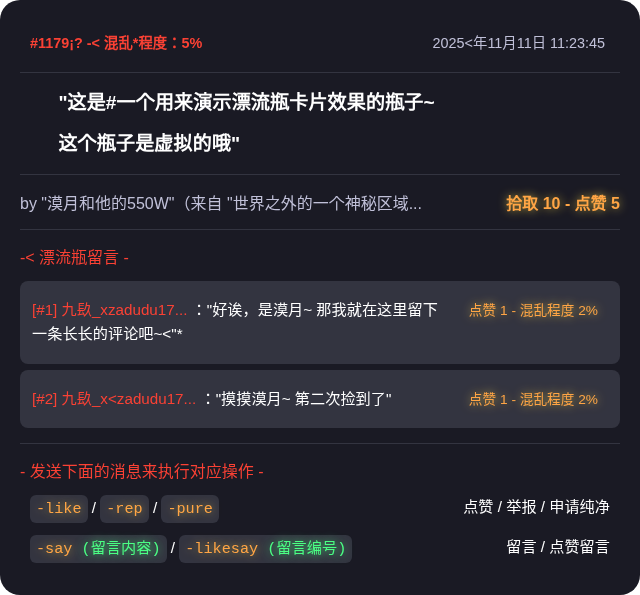
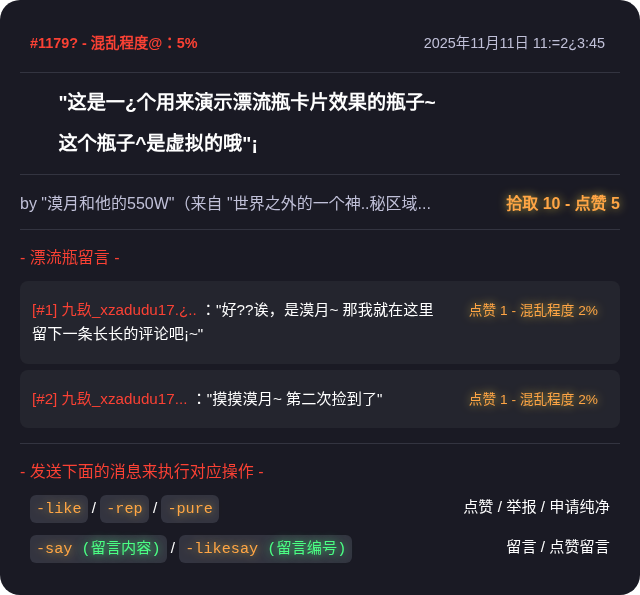
update

diff --git a/xme/plugins/commands/drift_bottle/tools/bottlecard.py b/xme/plugins/commands/drift_bottle/tools/bottlecard.py
@@ -1,5 +1,5 @@
 from xme.xmetools.texttools import limit_str_len
-from xme.xmetools.randtools import html_messy_string
+from xme.xmetools.randtools import html_messy_string, messy_string
 from xme.plugins.commands.drift_bottle.tools.cards import CARD_SKINS
 from xme.plugins.commands.drift_bottle import DriftBottle
 def get_card_item(item_name: str, skin_name="默认卡片") -> str | dict | int | bool:
@@ -65,7 +65,7 @@ def get_example_bottle(skin_name="默认卡片"):
     from xme.plugins.commands.drift_bottle import EXAMPLE_BOTTLE
     return get_class_bottle_card_html(EXAMPLE_BOTTLE, skin_name=skin_name)
 
-def get_class_bottle_card_html(bottle: DriftBottle, messy_rate=None, messy_rate_str=None, custom_tip="", skin_name="默认卡片"):
+def get_class_bottle_card_html(bottle: DriftBottle, messy_rate=None, messy_rate_str=None, custom_tip="", skin_name="默认卡片", html_render=False):
     if messy_rate is None:
         messy_rate = min(100, max(0, bottle.views * 2 - bottle.likes * 3))
     if messy_rate_str is None:
@@ -83,13 +83,14 @@ def get_class_bottle_card_html(bottle: DriftBottle, messy_rate=None, messy_rate_
         comments_list=bottle.comments,
         custom_tip=custom_tip,
         skin_name=skin_name,
+        html_render=html_render,
     )
 
-def get_bottle_card_html(id, messy_rate_str, messy_rate: int | float, date, content, sender, group, views, likes, comments_list, custom_tip="", skin_name="默认卡片"):
+def get_bottle_card_html(id, messy_rate_str, messy_rate: int | float, date, content, sender, group, views, likes, comments_list, custom_tip="", skin_name="默认卡片", html_render=False):
     content = f'"{content}"'
     str_len = get_card_item("str_len", skin_name)
     comments = get_comment_html(messy_rate, comments_list, skin_name=skin_name)
-    formated_content = [f'<p class="main_content">{html_messy_string(c, messy_rate)}</p>' for c in content.replace("\n", "\r").split("\r")]
+    formated_content = [f'<p class="main_content">{html_messy_string(c, messy_rate) if not html_render else messy_string(c, messy_rate)}</p>' for c in content.replace("\n", "\r").split("\r")]
     info_texts = [
         "#{id} - 混乱程度：{messy_rate}".format(id=id, messy_rate=messy_rate_str),
         date,

diff --git a/xme/xmetools/dbtools.py b/xme/xmetools/dbtools.py
@@ -26,9 +26,6 @@ class DbReadWriteable(Protocol):
     def to_dict(self):
         ...
 
-# class DbTypeParser:
-
-#     @staticmethod
 
 class XmeDatabase:
     """XME 数据库相关类
@@ -38,12 +35,6 @@ class XmeDatabase:
         """初始化数据库
         """
         self.db_path = db_path
-
-    # def get_class_table_name(cls: type[object]):
-    #     return cls.__name__
-
-    # def get_instance_class_table_name(cls_instance: object):
-    #     return cls_instance.__class__.__name__
 
     def get_class_typing_hints(cls: type[T_DbReadWriteable]):
         hints = get_type_hints(cls)
@@ -251,39 +242,6 @@ class XmeDatabase:
 
         # data_dict['database'] = self
         return data_dict
-
-    # def create_table(self, obj: T_DbReadWriteable, name=''):
-    #     """通过类创建表
-
-    #     Args:
-    #         name (str): 表名
-    #         obj (Any): 类
-    #     """
-    #     if obj == None: raise ValueError("类不可是 None")
-    #     if not name:
-    #         name = XmeDatabase.get_instance_class_table_name(obj)
-    #     print(f"初始化表 {name} 中...")
-    #     # print(obj.__dict__.items())
-    #     fields = {k: v for k, v in obj.to_dict().items() if k != 'id' and k != 'database'}
-    #     types = ['TEXT' if isinstance(value, str) else 'INTEGER' if isinstance(value, int) else 'BLOB' for value in fields.values()]
-    #     columns = ', '.join([f"{field} {ftype}" for field, ftype in zip(fields.keys(), types)])
-    #     sql = f"CREATE TABLE IF NOT EXISTS {name} (id INTEGER PRIMARY KEY, {columns})"
-    #     self.exec_query(sql)
-
-    # def init_user_info(self):
-    #     """初始化用户信息
-    #     """
-    #     self.exec_query('''
-    #         CREATE TABLE IF NOT EXISTS users (
-    #             id INTEGER PRIMARY KEY,
-    #             name TEXT NOT NULL,
-    #             last_reg_days INTEGER,
-    #             coins INTEGER,
-    #             permission INTEGER DEFAULT 1,
-    #             bio TEXT,
-    #             inventory TEXT
-    #         )
-    #     ''')
 
     @database_connect
     def exec_query(self, cursor, query, params=(), dict_data=False) -> list[tuple | dict]:

diff --git a/xme/xmetools/numtools.py b/xme/xmetools/numtools.py
@@ -2,28 +2,6 @@ import re
 import math
 from decimal import Decimal, getcontext
 
-def is_prime(n: int) -> bool:
-    """检查是否为质数
-
-    Args:
-        n (int): 被检查的数
-
-    Returns:
-        bool: 是否为质数
-    """
-    if n <= 1:
-        return False
-    # 2 和 3 是质数
-    if n <= 3:
-        return True
-    if n % 2 == 0 or n % 3 == 0:
-        return False
-    # 从5开始检查，跳过偶数（步长为6）
-    for i in range(5, int(math.sqrt(n)) + 1, 6):
-        if n % i == 0 or n % (i + 2) == 0:
-            return False
-    return True
-
 def to_nums_base(num: int, num_strs: list[str]):
     """将数字转换为任意进制字符列表，例如定义 ["a", "b", "c"]，会将十进制数字替换为数字字符为 a b c 的三进制数字
 

diff --git a/xme/plugins/event_parsers/bot_connected.py b/xme/plugins/event_parsers/bot_connected.py
@@ -1,7 +1,7 @@
 from nonebot import on_websocket_connect
 import aiocqhttp
 import xme.xmetools.colortools as c
-import xme.xmetools.numtools as n
+from sympy import isprime
 import nonebot
 from xme.xmetools.jsontools import read_from_path, save_to_path
 import config
@@ -16,7 +16,7 @@ async def connect(event: aiocqhttp.Event):
     vars = read_from_path("data/bot_vars.json")
     vars["self_id"] = event.self_id
     save_to_path("data/bot_vars.json", vars)
-    if not n.is_prime(var.currentpid):
+    if not isprime(var.currentpid):
         message = f"[DEBUG] {character.get_message('bot_info', 'name')} 准备好啦~"
         if not config.DEBUG: return
     # else:

diff --git a/xme/plugins/commands/drift_bottle/pickup.py b/xme/plugins/commands/drift_bottle/pickup.py
@@ -188,6 +188,7 @@ async def _(session: CommandSession, user: u.User):
         messy_rate_str=messy_rate_string,
         custom_tip=suffix,
         skin_name=skin_name,
+        html_render=not index_is_int,
     ))
     # await send_session_msg(session, bottle_card)
     await send_session_msg(session, get_message("plugins", __plugin_name__, "bottle_picked_prefix") + (await image_msg(bottle_card)), linebreak=False, tips=True)

diff --git a/xme/plugins/commands/drift_bottle/check.py b/xme/plugins/commands/drift_bottle/check.py
@@ -69,6 +69,7 @@ async def _(session: CommandSession, user: u.User):
         messy_rate_str=messy_rate_string,
         custom_tip=suffix,
         skin_name=skin_name,
+        html_render=not index_is_int,
     ))
     # await send_session_msg(session, bottle_card)
     await send_session_msg(session, (await image_msg(bottle_card)), tips=True)

diff --git a/xme/plugins/commands/drift_bottle/tools/cards.py b/xme/plugins/commands/drift_bottle/tools/cards.py
@@ -552,7 +552,7 @@ CARD_SKINS = {
             "code-color": "#4bff84",
             "code-bg": "#333440",
             "date-color": "#c0c0d8",
-            "comments-bg": "#333440",
+            "comments-bg": "#24252e",
             "background-color": "#1a1a24",
             "hr-color": "#333440",
             "sender-color": "#c0c0d8",

diff --git a/xme/xmetools/msgtools.py b/xme/xmetools/msgtools.py
@@ -120,8 +120,7 @@ async def aget_session_msg(session: CommandSession, prompt=None, at=True, linebr
         ) +
         msg +
         (
-            "" if
-                not has_tips
+            "" if not has_tips
             else
                 "\n-------------------\ntip：" +
             get_message("bot_info", "tips")
